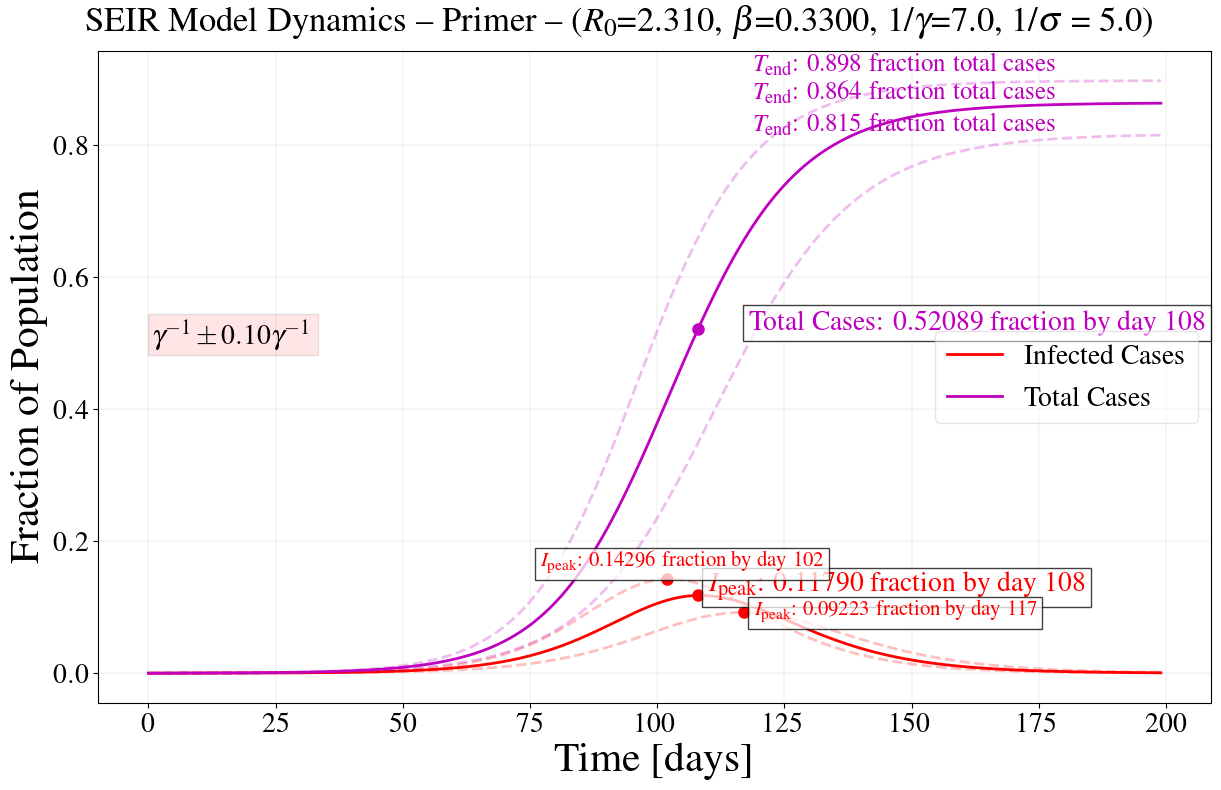
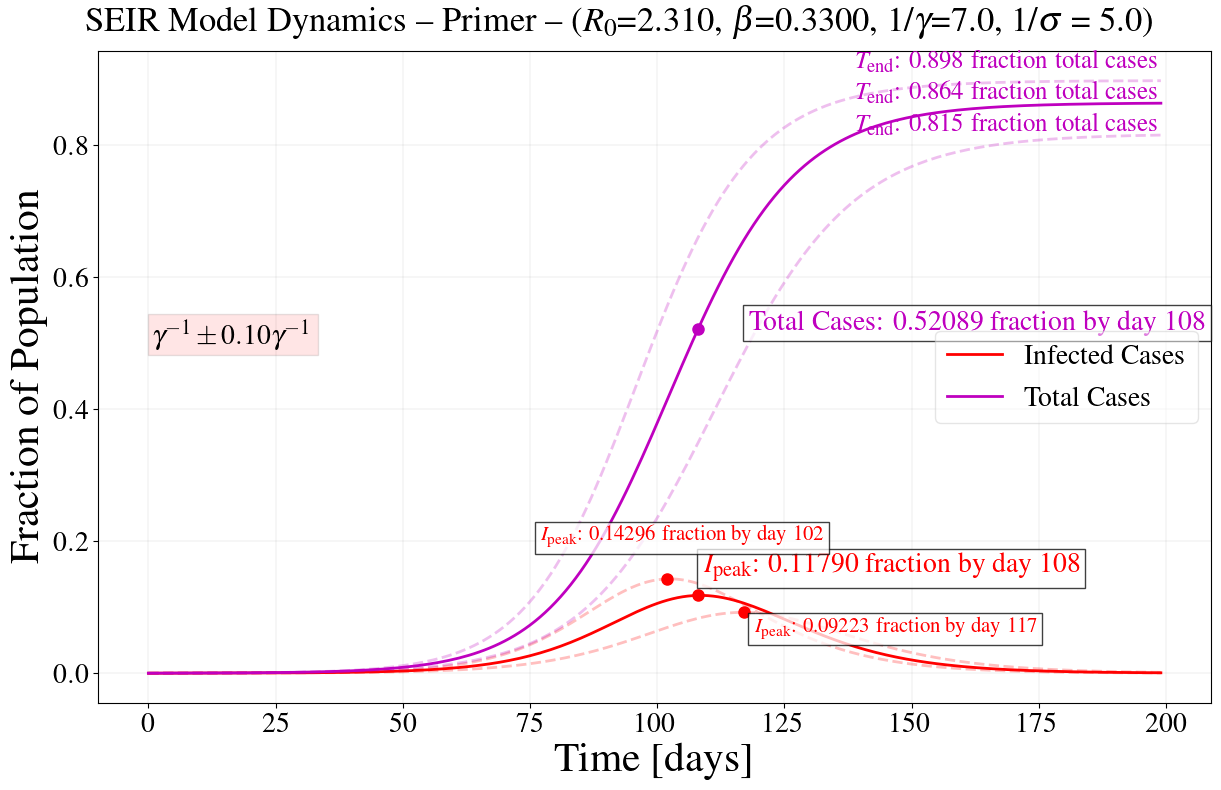
changes for SEIR analysis

Changed region(s): [[0.4357, 0.638, 0.9025, 0.8203], [0.6224, 0.0608, 0.9648, 0.1823]]

diff --git a/epimodels/plots.py b/epimodels/plots.py
@@ -1249,18 +1249,18 @@ def plotSIR_evolutionErrors_new(S_variables, I_variables, R_variables, Plotoptio
         if Tf == 90:
             if scenario == 2:
                 txt_title = r"Local peak infected: {I_tc:5.5f} {number_scaling} by day {peak_days:10.0f} " 
-                ax1.text(tc+ 5, I_tc/N , txt_title.format(I_tc=I_tc/scale, number_scaling=number_scaling, peak_days= tc), fontsize=20, color="r",  bbox=dict(facecolor='white', alpha=0.75))
+                ax1.text(tc + 5, I_tc/N , txt_title.format(I_tc=I_tc/scale, number_scaling=number_scaling, peak_days= tc), fontsize=20, color="r",  bbox=dict(facecolor='white', alpha=0.75))
                 txt_title = r"Local peak infected: {I_tc:5.5f} {number_scaling} by day {peak_days:10.0f} " 
                 ax1.text(I_tc_plus_idx- 30, 0.9*I_tc_plus/N, txt_title.format(I_tc=I_tc_plus/scale, number_scaling=number_scaling, peak_days= I_tc_plus_idx), fontsize=12, color="r",  bbox=dict(facecolor='white', alpha=0.75))
                 txt_title = r"Local peak infected: {I_tc:5.5f} {number_scaling} by day {peak_days:10.0f} " 
-                ax1.text(I_tc_minus_idx+ 5,I_tc_minus/N, txt_title.format(I_tc=I_tc_minus/scale, number_scaling=number_scaling, peak_days= I_tc_minus_idx), fontsize=12, color="r",  bbox=dict(facecolor='white', alpha=0.75))
+                ax1.text(I_tc_minus_idx + 5,I_tc_minus/N, txt_title.format(I_tc=I_tc_minus/scale, number_scaling=number_scaling, peak_days= I_tc_minus_idx), fontsize=12, color="r",  bbox=dict(facecolor='white', alpha=0.75))
             else:                
                 txt_title = r"{Ipeak}: {I_tc:5.5f} {number_scaling} by day {peak_days:10.0f} " 
                 ax1.text(tc- 40, I_tc/N , txt_title.format(Ipeak=Ipeak, I_tc=I_tc/scale, number_scaling=number_scaling, peak_days= tc), fontsize=20, color="r",  bbox=dict(facecolor='white', alpha=0.75))
                 txt_title = r"{Ipeak}: {I_tc:5.5f} {number_scaling} by day {peak_days:10.0f} " 
-                ax1.text(I_tc_plus_idx- 20, I_tc_plus/N, txt_title.format(Ipeak=Ipeak,I_tc=I_tc_plus/scale, number_scaling=number_scaling, peak_days= I_tc_plus_idx), fontsize=12, color="r",  bbox=dict(facecolor='white', alpha=0.75))
+                ax1.text(I_tc_plus_idx - 20, I_tc_plus/N, txt_title.format(Ipeak=Ipeak,I_tc=I_tc_plus/scale, number_scaling=number_scaling, peak_days= I_tc_plus_idx), fontsize=12, color="r",  bbox=dict(facecolor='white', alpha=0.75))
                 txt_title = r"{Ipeak}: {I_tc:5.5f} {number_scaling} by day {peak_days:10.0f} " 
-                ax1.text(I_tc_minus_idx -30,I_tc_minus/N, txt_title.format(Ipeak=Ipeak,I_tc=I_tc_minus/scale, number_scaling=number_scaling, peak_days= I_tc_minus_idx), fontsize=12, color="r",  bbox=dict(facecolor='white', alpha=0.75))
+                ax1.text(I_tc_minus_idx - 30,I_tc_minus/N, txt_title.format(Ipeak=Ipeak,I_tc=I_tc_minus/scale, number_scaling=number_scaling, peak_days= I_tc_minus_idx), fontsize=12, color="r",  bbox=dict(facecolor='white', alpha=0.75))
 
         else:
             # Adjust automatically
@@ -2023,6 +2023,228 @@ def plotSEIR_growth(St, **kwargs):
     
     return tc_Rt, effective_Rt[tc_Rt]
 
+
+
+def plotSEIR_evolutionErrors(S_variables, E_variables, I_variables, R_variables, Plotoptions, text_error, **kwargs):
+
+    S       = S_variables[0,:]
+    S_plus  = S_variables[1,:]
+    S_minus = S_variables[2,:]
+
+    E       = E_variables[0,:]
+    E_plus  = E_variables[1,:]
+    E_minus = E_variables[2,:]
+
+    I       = I_variables[0,:]
+    I_plus  = I_variables[1,:]
+    I_minus = I_variables[2,:]
+
+    R       = R_variables[0,:]
+    R_plus  = R_variables[1,:]
+    R_minus = R_variables[2,:]
+
+
+    T = I + R
+    T_minus = I_minus+ R_minus
+    T_plus = I_plus+ R_plus
+
+    Tf = len(T_plus)
+    t = np.arange(0, Tf, 1)
+
+    # Unpack
+    plot_all, show_S, show_E, show_T, show_R, show_analytic_limit, plot_peaks, x_axis_offset, y_axis_offset, scale_offset, scenario  = Plotoptions 
+
+    # Unpacking Simulation and Plotting Options    
+    figure_title   = kwargs['figure_title']
+    N              = kwargs['N']
+    r0             = kwargs['r0']
+    gamma          = 1/kwargs['gamma_inv']
+    filename       = kwargs['file_extension']
+    if 'x_tick_names' in kwargs:
+        x_tick_names   = kwargs['x_tick_names']
+        x_tick_numbers = np.arange(0, len(S), kwargs['x_tick_step'])
+    store_plots    = kwargs['store_plots']
+
+    if 'number_scaling' in kwargs:
+        number_scaling = kwargs['number_scaling']
+    else:
+        number_scaling = 'million'
+
+
+    # Defining scaling for text     
+    if number_scaling == 'million':
+        scale      = 1000000
+    elif number_scaling == '100k':
+        scale      = 100000
+    elif number_scaling == '10k':
+        scale      = 10000
+    elif number_scaling == 'k':
+        scale      = 1000
+    elif number_scaling == 'none':
+        scale     = 1 
+        number_scaling = ""
+    elif number_scaling == 'fraction':
+        scale     = N 
+        number_scaling = "fraction"
+
+
+    # Plot the data of three separate curves for S(t), I(t) and R(t)
+    fig, ax1 = plt.subplots()
+    fig.suptitle(figure_title,fontsize=25)    
+
+    # Variable evolution
+    if show_S:
+        ax1.plot(t, S_plus/N, 'k--', lw=2, alpha=0.25)
+        ax1.plot(t, S/N, 'k', lw=2, label='Susceptible')
+        ax1.plot(t, S_minus/N, 'k--', lw=2, alpha=0.25)
+
+    ax1.plot(t, I_plus/N, 'r--',  lw=2, alpha=0.25)
+    ax1.plot(t, I/N, 'r', lw=2,   label='Infected Cases')
+    ax1.plot(t, I_minus/N, 'r--', lw=2, alpha=0.25)
+    # scenario = 2
+    if show_T:
+        ax1.plot(t, T_plus/N, 'm--',  lw=2, alpha=0.25)
+        ax1.plot(t, T/N, 'm',  lw=2, label='Total Cases')
+        ax1.plot(t, T_minus/N, 'm--',  lw=2, alpha=0.25)
+
+        total_cases     = T[-1]
+        print('Total Cases when growth linear = ', total_cases)
+        # ax1.plot(t, (total_cases/N)*np.ones(len(t)), 'k--')
+        # txt1 = "{per:2.4f} {number_scaling} total cases as $t(end)$"
+        
+        txt1 = r"{tend}: {per:2.3f} {number_scaling} total cases"
+        T_end = r"$T_{\rm end}$"
+        ax1.text(t[-1]-x_axis_offset, (total_cases/N), txt1.format(tend=T_end, per=total_cases/scale, number_scaling= number_scaling), fontsize=18, color='m')        
+        total_cases     = T_minus[-1]
+        print('Total Cases when growth linear = ', total_cases)
+        ax1.text(t[-1]-x_axis_offset, (total_cases/N), txt1.format(tend=T_end, per=total_cases/scale, number_scaling= number_scaling), fontsize=18, color='m')
+
+        total_cases     = T_plus[-1]
+        print('Total Cases when growth linear = ', total_cases)
+        ax1.text(t[-1]-x_axis_offset, (1 + scale_offset)*(total_cases/N), txt1.format(tend=T_end, per=total_cases/scale, number_scaling = number_scaling), fontsize=18, color='m')
+
+
+        fig.subplots_adjust(left=.12, bottom=.14, right=.93, top=0.93)
+        ax1.text(1, 0.5, text_error, fontsize=20, bbox=dict(facecolor='red', alpha=0.1))
+    else:
+        if Tf == 90:
+            if scenario == 1:
+                ax1.text(0.2*Tf, 0.0012, text_error, fontsize=20, bbox=dict(facecolor='red', alpha=0.1))
+            else:
+                ax1.text(0.5*Tf, 0.0000007, text_error, fontsize=20, bbox=dict(facecolor='red', alpha=0.1))
+    # Estimated Final epidemic size (analytic) not-dependent on simulation
+
+    # Equation to estimate final epidemic size (infected)
+    def epi_size(x):        
+        return np.log(x) + r0_test*(1-x)
+
+    init_guess   = 0.0001
+    r0_test      = float(r0)
+    SinfN  = fsolve(epi_size, init_guess)
+    One_SinfN = 1 - SinfN
+    print('*****   Final Epidemic Size    *****')
+    print('r0 = ', r0_test, '1 - Sinf/S0 = ', One_SinfN[0])    
+
+    print('*****   Results    *****')
+    tc =  np.argmax(I)
+    I_tc     = I[tc]
+    print('Peak Instant. Infected = ', I_tc,'by day=', tc)
+
+    T_tc  = T[tc]
+    print('Total Cases when Peak = ', T_tc,'by day=', tc)
+
+    total_cases     = T[-1]
+    print('Total Cases when growth linear = ', total_cases)
+
+    I_tc_plus_idx =  np.argmax(I_plus)
+    I_tc_plus     = I_plus[I_tc_plus_idx]
+    print('Peak Instant. Infected - Error= ', I_tc_plus,'by day=', I_tc_plus_idx)
+
+    I_tc_minus_idx =  np.argmax(I_minus)
+    I_tc_minus     = I_minus[I_tc_minus_idx]
+    print('Peak Instant. Infected + Error= ', I_tc_minus,'by day=', I_tc_minus_idx)
+
+    do_plus = 1; do_minus = 1
+    if abs(tc-I_tc_plus_idx) < 3:
+        do_plus = 0
+    if abs(tc-I_tc_minus_idx) < 3:
+        do_minus = 0
+
+    if plot_peaks:
+        Ipeak = r"$I_{\rm peak}$"
+
+        # Plot peak points
+        ax1.plot(tc, I_tc/N,'ro', markersize=8)
+        if do_plus:
+            # Plot peak points
+            ax1.plot(I_tc_plus_idx, I_tc_plus/N,'ro', markersize=8)
+        if do_minus:
+            # Plot peak points
+            ax1.plot(I_tc_minus_idx, I_tc_minus/N,'ro', markersize=8)
+
+        if Tf == 90:
+            if scenario == 2:
+                txt_title = r"Local peak infected: {I_tc:5.5f} {number_scaling} by day {peak_days:10.0f} " 
+                ax1.text(tc + 5, I_tc/N , txt_title.format(I_tc=I_tc/scale, number_scaling=number_scaling, peak_days= tc), fontsize=20, color="r",  bbox=dict(facecolor='white', alpha=0.75))
+                txt_title = r"Local peak infected: {I_tc:5.5f} {number_scaling} by day {peak_days:10.0f} " 
+                ax1.text(I_tc_plus_idx- 30, 0.9*I_tc_plus/N, txt_title.format(I_tc=I_tc_plus/scale, number_scaling=number_scaling, peak_days= I_tc_plus_idx), fontsize=12, color="r",  bbox=dict(facecolor='white', alpha=0.75))
+                txt_title = r"Local peak infected: {I_tc:5.5f} {number_scaling} by day {peak_days:10.0f} " 
+                ax1.text(I_tc_minus_idx + 5,I_tc_minus/N, txt_title.format(I_tc=I_tc_minus/scale, number_scaling=number_scaling, peak_days= I_tc_minus_idx), fontsize=12, color="r",  bbox=dict(facecolor='white', alpha=0.75))
+            else:                
+                txt_title = r"{Ipeak}: {I_tc:5.5f} {number_scaling} by day {peak_days:10.0f} " 
+                ax1.text(tc- 40, I_tc/N , txt_title.format(Ipeak=Ipeak, I_tc=I_tc/scale, number_scaling=number_scaling, peak_days= tc), fontsize=20, color="r",  bbox=dict(facecolor='white', alpha=0.75))
+                txt_title = r"{Ipeak}: {I_tc:5.5f} {number_scaling} by day {peak_days:10.0f} " 
+                ax1.text(I_tc_plus_idx - 20, I_tc_plus/N, txt_title.format(Ipeak=Ipeak,I_tc=I_tc_plus/scale, number_scaling=number_scaling, peak_days= I_tc_plus_idx), fontsize=12, color="r",  bbox=dict(facecolor='white', alpha=0.75))
+                txt_title = r"{Ipeak}: {I_tc:5.5f} {number_scaling} by day {peak_days:10.0f} " 
+                ax1.text(I_tc_minus_idx - 30,I_tc_minus/N, txt_title.format(Ipeak=Ipeak,I_tc=I_tc_minus/scale, number_scaling=number_scaling, peak_days= I_tc_minus_idx), fontsize=12, color="r",  bbox=dict(facecolor='white', alpha=0.75))
+
+        else:
+            # Adjust automatically
+            txt_title = r"{Ipeak}: {I_tc:5.5f} {number_scaling} by day {peak_days:10.0f} " 
+            ax1.text(tc+1, (1.25)*I_tc/N , txt_title.format(Ipeak=Ipeak,I_tc=I_tc/scale, number_scaling=number_scaling, peak_days= tc), fontsize=20, color="r",  bbox=dict(facecolor='white', alpha=0.75))
+            do_plus = 1
+            do_minus = 1
+            if do_plus:        
+                txt_title = r"{Ipeak}: {I_tc:5.5f} {number_scaling} by day {peak_days:10.0f} " 
+                # ax1.text(I_tc_plus_idx-55, (1 - 30*scale_offset)*I_tc_plus/N, txt_title.format(Ipeak=Ipeak,I_tc=I_tc_plus/scale, number_scaling=number_scaling, peak_days= I_tc_plus_idx), fontsize=15, color="r",  bbox=dict(facecolor='white', alpha=0.75))
+                ax1.text(I_tc_plus_idx-25, (1 + 25*scale_offset)*I_tc_plus/N, txt_title.format(Ipeak=Ipeak,I_tc=I_tc_plus/scale, number_scaling=number_scaling, peak_days= I_tc_plus_idx), fontsize=15, color="r",  bbox=dict(facecolor='white', alpha=0.75))
+            if do_minus:
+                txt_title = r"{Ipeak}: {I_tc:5.5f} {number_scaling} by day {peak_days:10.0f} " 
+                # ax1.text(I_tc_minus_idx+0, (1 - 30*scale_offset)*I_tc_minus/N, txt_title.format(Ipeak=Ipeak,I_tc=I_tc_minus/scale, number_scaling=number_scaling, peak_days= I_tc_minus_idx), fontsize=15, color="r",  bbox=dict(facecolor='white', alpha=0.75))
+                ax1.text(I_tc_minus_idx+2, (1 - 25*scale_offset)*I_tc_minus/N, txt_title.format(Ipeak=Ipeak,I_tc=I_tc_minus/scale, number_scaling=number_scaling, peak_days= I_tc_minus_idx), fontsize=15, color="r",  bbox=dict(facecolor='white', alpha=0.75))
+
+        if plot_all == 1:
+            ax1.plot(tc, T_tc/N,'mo', markersize=8)
+            txt_title2 = r"Total Cases: {peak_total:5.5f} {number_scaling} by day {peak_days:10.0f} " 
+            ax1.text(tc+10, T_tc/N, txt_title2.format(peak_total=T_tc/scale, number_scaling=number_scaling, peak_days= tc), fontsize=20, color="m", bbox=dict(facecolor='white', alpha=0.75))
+
+
+    ax1.set_xlabel('Time [days]', fontsize=30)
+    ax1.set_ylabel('Fraction of Population', fontsize=30)
+    # ax1.yaxis.set_tick_params(length=0)
+    # ax1.xaxis.set_tick_params(length=0)
+    if 'x_tick_names' in kwargs:
+        ax1.set_xticks(x_tick_numbers)
+        ax1.set_xticklabels(x_tick_names)
+    
+    legend = ax1.legend(fontsize=20, loc='center right')
+    legend.get_frame().set_alpha(0.5)
+    for spine in ('top', 'right', 'bottom', 'left'):
+        ax1.spines[spine].set_visible(True)
+
+    for tick in ax1.xaxis.get_major_ticks():
+        tick.label.set_fontsize(20) 
+    for tick in ax1.yaxis.get_major_ticks():
+            tick.label.set_fontsize(20) 
+    
+
+    ax1.grid(True, color='k', alpha=0.2, linewidth = 0.25)  
+    fig.subplots_adjust(left=.12, bottom=.14, right=.93, top=0.93)
+    fig.set_size_inches(27.5/2, 16.5/2, forward=True)
+
+    if store_plots:
+        plt.savefig(filename + ".png", bbox_inches='tight')
+        # plt.savefig(file_extensions[0] + "_all.pdf", bbox_inches='tight')
 
 
 def plotSEIR_evolutionStochastic(S_variables, E_variables, I_variables, R_variables, T_variables, Plotoptions, **kwargs):    

diff --git a/epimodels/utils.py b/epimodels/utils.py
@@ -92,26 +92,46 @@ def loadCSSEData(country, plot_data):
     return data
 
 
-def createResultsfile(basefilename = './results/test', append_name= 'results', test_type='sampling'):
+def createResultsfile(basefilename = './results/test', append_name= 'results', test_type='sampling', header="SIR"):
     results_filename = basefilename + '_' + append_name + '.xlsx'
     workbook = xlsxwriter.Workbook(results_filename)
     worksheet = workbook.add_worksheet()
 
-    if test_type == 'sampling':    
-        header = ['beta-mean','beta-Q99.85', 'beta-Q0.15', 'beta-Q97.5','beta-Q2.5',
-                  'gamma-inv-mean', 'gamma-inv-Q99.85', 'gamma-inv-Q0.15','gamma-inv-Q97.5','gamma-inv-Q2.5',
-                  'R_0-mean','R_0-Q99.85', 'R_0-Q0.15', 'R_0-Q97.5','R_0-Q2.5',
-                  't_c-mean','t_c-Q97.5','t_c-Q2.5', 't_c-Q83.5', 't_c-Q15.5', 
-                  'I_peak-mean','I_peak-Q97.5','I_peak-Q2.5', 'I_peak-Q83.5', 'I_peak-Q15.5', 
-                  'T_end-mean','T_end-Q97.5','T_end-Q2.5', 'T_end-Q83.5', 'T_end-Q15.5']    
+    if header == "SIR":
+        if test_type == 'sampling':    
+            header = ['beta-mean','beta-Q99.85', 'beta-Q0.15', 'beta-Q97.5','beta-Q2.5',
+                      'gamma-inv-mean', 'gamma-inv-Q99.85', 'gamma-inv-Q0.15','gamma-inv-Q97.5','gamma-inv-Q2.5',
+                      'R_0-mean','R_0-Q99.85', 'R_0-Q0.15', 'R_0-Q97.5','R_0-Q2.5',
+                      't_c-mean','t_c-Q97.5','t_c-Q2.5', 't_c-Q83.5', 't_c-Q15.5', 
+                      'I_peak-mean','I_peak-Q97.5','I_peak-Q2.5', 'I_peak-Q83.5', 'I_peak-Q15.5', 
+                      'T_end-mean','T_end-Q97.5','T_end-Q2.5', 'T_end-Q83.5', 'T_end-Q15.5']    
 
-    if test_type == 'varying':    
-                header = ['beta','beta-max', 'beta-max',
-                          'gamma_inv', 'gamma_inv-max','gamma_inv-min',
-                          'R_0', 'R_0-max', 'R_0-min',
-                          't_c', 't_c-max','t_c-min',
-                          'I_peak', 'I_peak-max', 'I_peak-min',
-                          'T_end', 'T_end-max', 'T_end-min']
+        if test_type == 'varying':    
+                    header = ['beta','beta-max', 'beta-max',
+                              'gamma_inv', 'gamma_inv-max','gamma_inv-min',
+                              'R_0', 'R_0-max', 'R_0-min',
+                              't_c', 't_c-max','t_c-min',
+                              'I_peak', 'I_peak-max', 'I_peak-min',
+                              'T_end', 'T_end-max', 'T_end-min']
+    elif header == "SEIR":
+        # This is for sampling method.. should be modified
+        if test_type == 'sampling':    
+            header = ['beta-mean','beta-Q99.85', 'beta-Q0.15', 'beta-Q97.5','beta-Q2.5',
+                      'gamma-inv-mean', 'gamma-inv-Q99.85', 'gamma-inv-Q0.15','gamma-inv-Q97.5','gamma-inv-Q2.5',
+                      'R_0-mean','R_0-Q99.85', 'R_0-Q0.15', 'R_0-Q97.5','R_0-Q2.5',
+                      't_c-mean','t_c-Q97.5','t_c-Q2.5', 't_c-Q83.5', 't_c-Q15.5', 
+                      'I_peak-mean','I_peak-Q97.5','I_peak-Q2.5', 'I_peak-Q83.5', 'I_peak-Q15.5', 
+                      'T_end-mean','T_end-Q97.5','T_end-Q2.5', 'T_end-Q83.5', 'T_end-Q15.5']    
+
+        if test_type == 'varying':    
+                    header = ['beta','beta-max', 'beta-max',
+                              'gamma_inv', 'gamma_inv-max','gamma_inv-min',
+                              'sigma_inv', 'sigma_inv-max','sigma_inv-min',
+                              'E_0', 'E_0-max','E_0-min',
+                              'R_0', 'R_0-max', 'R_0-min',
+                              't_c', 't_c-max','t_c-min',
+                              'I_peak', 'I_peak-max', 'I_peak-min',
+                              'T_end', 'T_end-max', 'T_end-min']
 
     for i in range(len(header)):
         worksheet.write(0,i, header[i])

diff --git a/sec3c_sensitivityVary_baselineSEIR_model.py b/sec3c_sensitivityVary_baselineSEIR_model.py
@@ -116,11 +116,11 @@ def run_SEIR_wErrors(beta_samples, gamma_inv_samples, sigma_inv_samples, E0_samp
     ##############################################################
     ######## Plots Simulation Variables with Error Bounds ########
     ##############################################################
-    x_axis_offset       = round(kwargs['days']*0.4)
+    x_axis_offset       = round(kwargs['days']*0.3)
     y_axis_offset       = 0.0000000003 
-    plot_all            = 1; plot_peaks = 1; show_S = 0; show_T = 1; show_R = 0; show_analytic_limit = 0; scale_offset = 0.01 
-    Plotoptions         = plot_all, show_S, show_T, show_R, show_analytic_limit, plot_peaks, x_axis_offset, y_axis_offset, scale_offset, scenario
-    plotSIR_evolutionErrors_new(S_samples, I_samples, R_samples, Plotoptions, text_error, **kwargs)    
+    plot_all            = 1; plot_peaks = 1; show_S = 0; show_E = 0; show_T = 1; show_R = 0; show_analytic_limit = 0; scale_offset = 0.015 
+    Plotoptions         = plot_all, show_S, show_E, show_T, show_R, show_analytic_limit, plot_peaks, x_axis_offset, y_axis_offset, scale_offset, scenario
+    plotSEIR_evolutionErrors(S_samples, E_samples, I_samples, R_samples, Plotoptions, text_error, **kwargs)    
 
 
 def main():    
@@ -140,7 +140,7 @@ def main():
     # Need to get rid of this variable here/..
     sim_kwargs['scenario']     = scenario
     basefilename               = sim_kwargs['file_extension']
-    workbook, worksheet        = createResultsfile(basefilename, 'errorVary', test_type='varying')
+    workbook, worksheet        = createResultsfile(basefilename, 'errorVary', test_type='varying', header = 'SEIR')
 
     ## For variation on these parameters
     beta       = sim_kwargs['beta']
@@ -177,6 +177,9 @@ def main():
     plt.show()
 
     ########### Test 3: vary sigma, fix beta and gamma ############
+    # Variables for +/- errors on beta
+    error_perc        = 20
+    err               = error_perc/100
     text_error                    =  r"$\sigma^{-1} \pm %1.2f \sigma^{-1}$"%err
     sim_kwargs['file_extension']  = basefilename + "_errorsVarySigma"
     sim_kwargs['worksheet']       = worksheet
@@ -188,15 +191,21 @@ def main():
     run_SEIR_wErrors(beta_samples, gamma_inv_samples, sigma_inv_samples, E0_samples, text_error, **sim_kwargs)
     plt.show()
     
-    ########### Test 3: vary sigma, fix beta and gamma ############
+    ########### Test 4: vary sigma, fix beta and gamma ############
+    # Variables for +/- errors on beta
+    error_perc        = 50
+    err               = error_perc/100
+
     text_error                    =  r"$E(0) \pm %1.2f E(0)$"%err
-    sim_kwargs['file_extension']  = basefilename + "_errorsVarySigma"
+    sim_kwargs['file_extension']  = basefilename + "_errorsVaryE0"
     sim_kwargs['worksheet']       = worksheet
-    sim_kwargs['row_num']         = 3
+    sim_kwargs['row_num']         = 4
     beta_samples      = [beta, beta, beta]
     gamma_inv_samples = [gamma_inv, gamma_inv, gamma_inv]
     sigma_inv_samples = [sigma_inv, sigma_inv, sigma_inv]
-    E0_samples        = [E0, E0*(1+err), E0*(1-err)]
+    I0                = sim_kwargs['I0']
+    E_scale           = 10
+    E0_samples        = [E_scale*I0, E_scale*(1+err)*I0, E_scale*(1-err)*I0]
     run_SEIR_wErrors(beta_samples, gamma_inv_samples, sigma_inv_samples, E0_samples, text_error, **sim_kwargs)
     plt.show()
 

diff --git a/sec3b_sensitivityVary_baselineSIR_model.py b/sec3b_sensitivityVary_baselineSIR_model.py
@@ -100,7 +100,7 @@ def run_SIR_wErrors(beta_samples, gamma_inv_samples, text_error, **kwargs):
     ##############################################################
     x_axis_offset       = round(kwargs['days']*0.4)
     y_axis_offset       = 0.0000000003 
-    plot_all            = 1; plot_peaks = 1; show_S = 0; show_T = 1; show_R = 0; show_analytic_limit = 0; scale_offset = 0.01 
+    plot_all            = 1; plot_peaks = 1; show_S = 0; show_T = 1; show_R = 0; show_analytic_limit = 0; scale_offset = 0.015
     Plotoptions         = plot_all, show_S, show_T, show_R, show_analytic_limit, plot_peaks, x_axis_offset, y_axis_offset, scale_offset, scenario
     plotSIR_evolutionErrors_new(S_samples, I_samples, R_samples, Plotoptions, text_error, **kwargs)    
 
